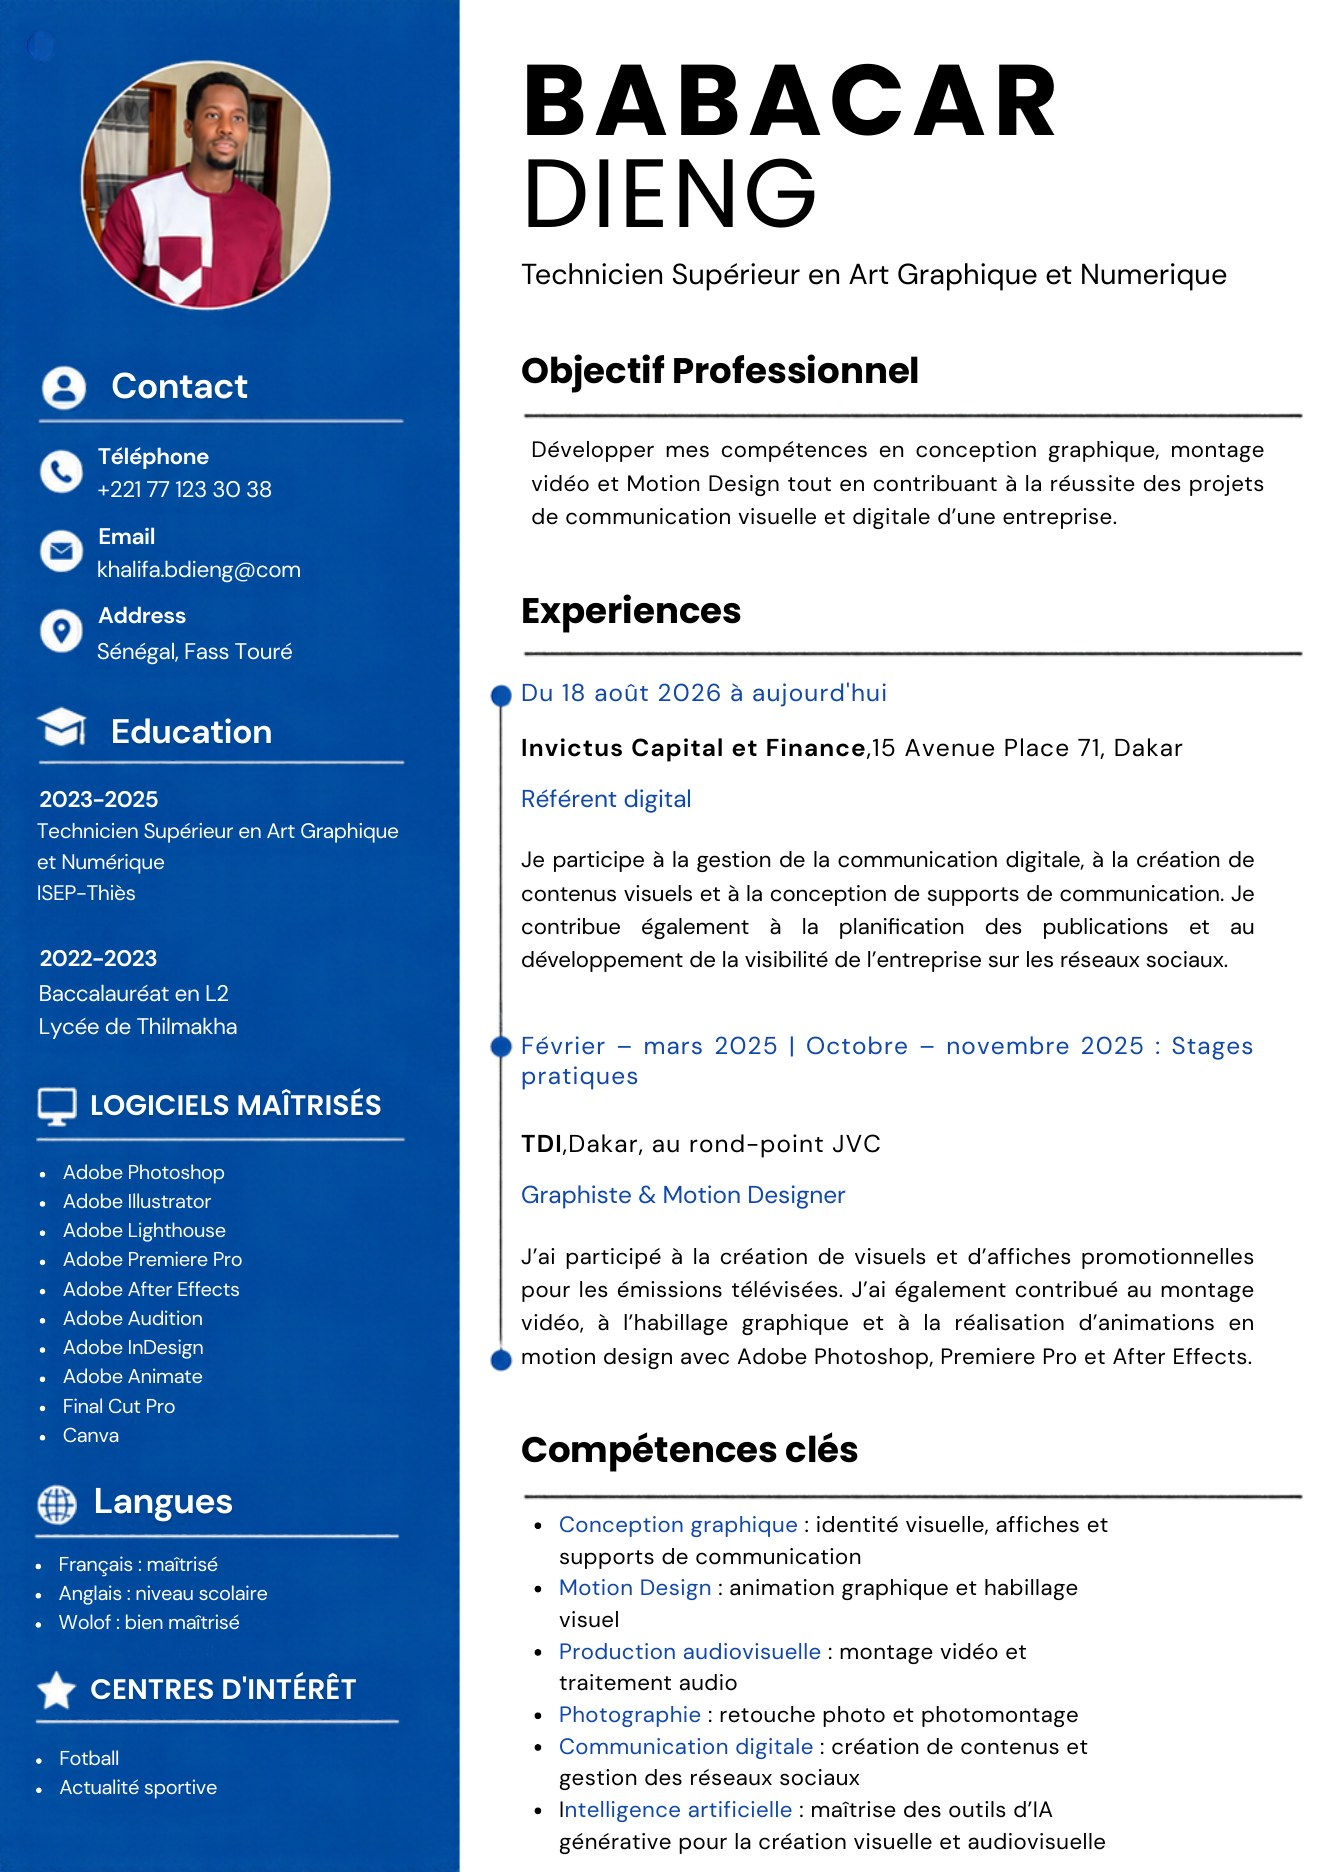
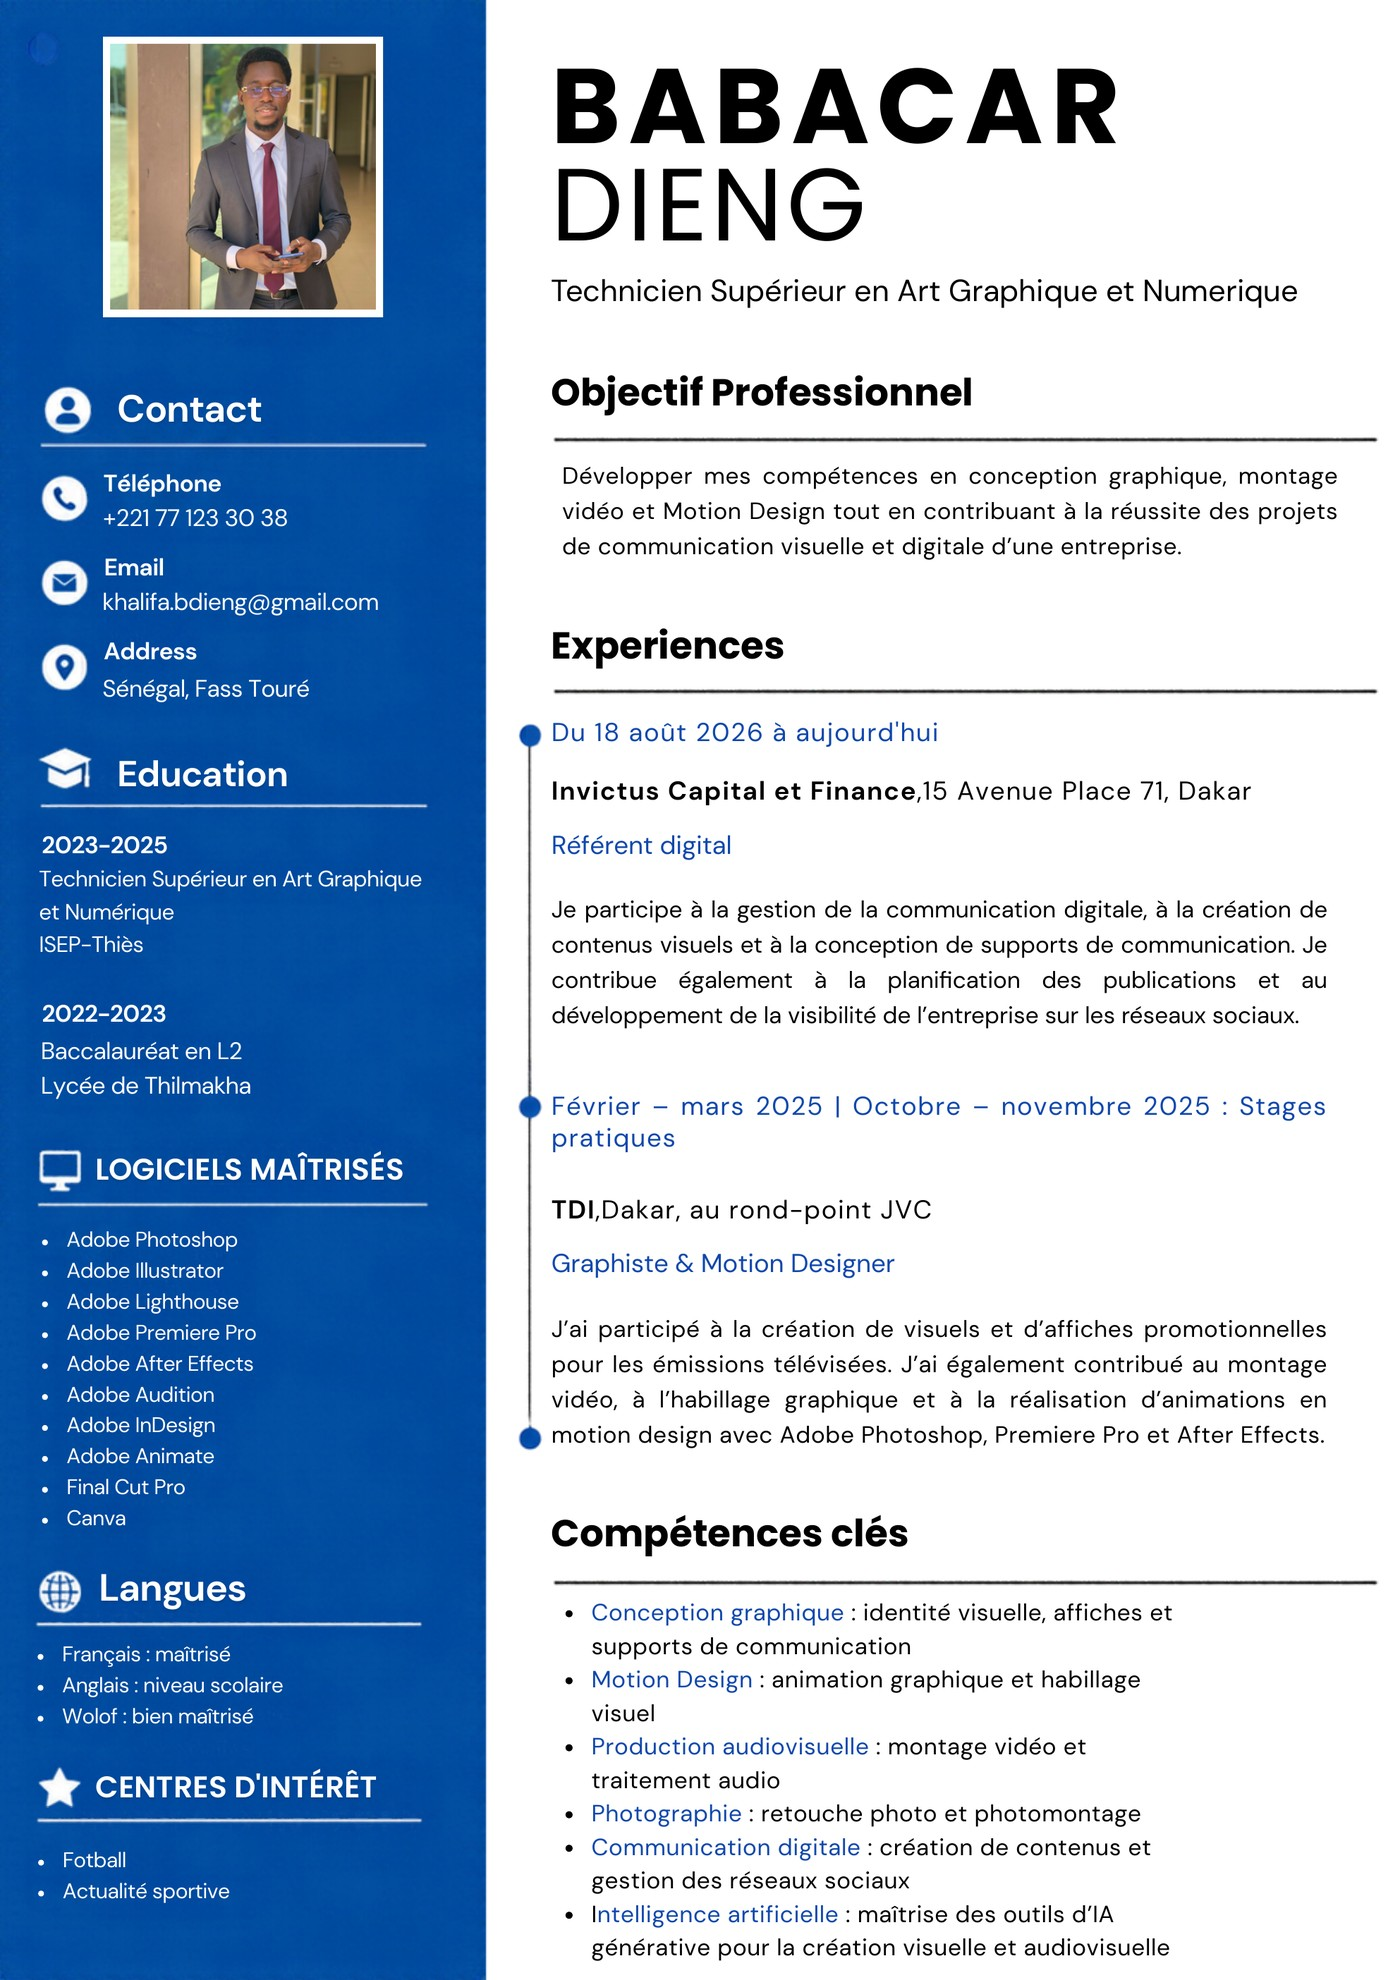
Portfolio : CV mis à jour
Claude-Session: https://claude.ai/code/session_01QjzxmfrhZ4Vjrqn2eByh9q

diff --git a/index.html b/index.html
@@ -735,7 +735,7 @@ body.cv-open > :not(#cv-view):not(.bar) { display: none !important; }
 <section class="cvview" id="cv-view" hidden aria-label="Curriculum vitæ">
   <div class="cvbar"><div class="wrap"><a class="back" href="#top">← Retour au portfolio</a><span>Curriculum vitæ · Babacar Dieng</span></div></div>
   <div class="wrap cvbody">
-    <figure class="sheet"><img src="img/cv-babacar-dieng.jpg" alt="CV de Babacar Dieng : contact, formation, logiciels, langues, centres d'intérêt, objectif, expériences et compétences clés"></figure>
+    <figure class="sheet"><img src="img/cv-babacar-dieng.jpg" alt="CV de Babacar Dieng avec photo : contact, formation, logiciels, langues, centres d'intérêt, objectif, expériences et compétences clés"></figure>
     <aside class="side">
       <div class="panel goalp"><h3>Objectif professionnel</h3><p>Développer mes compétences en conception graphique, montage vidéo et motion design tout en contribuant à la réussite des projets de communication visuelle et digitale d'une entreprise.</p></div>
       <div class="panel"><h3>Formation</h3><div class="edu">
